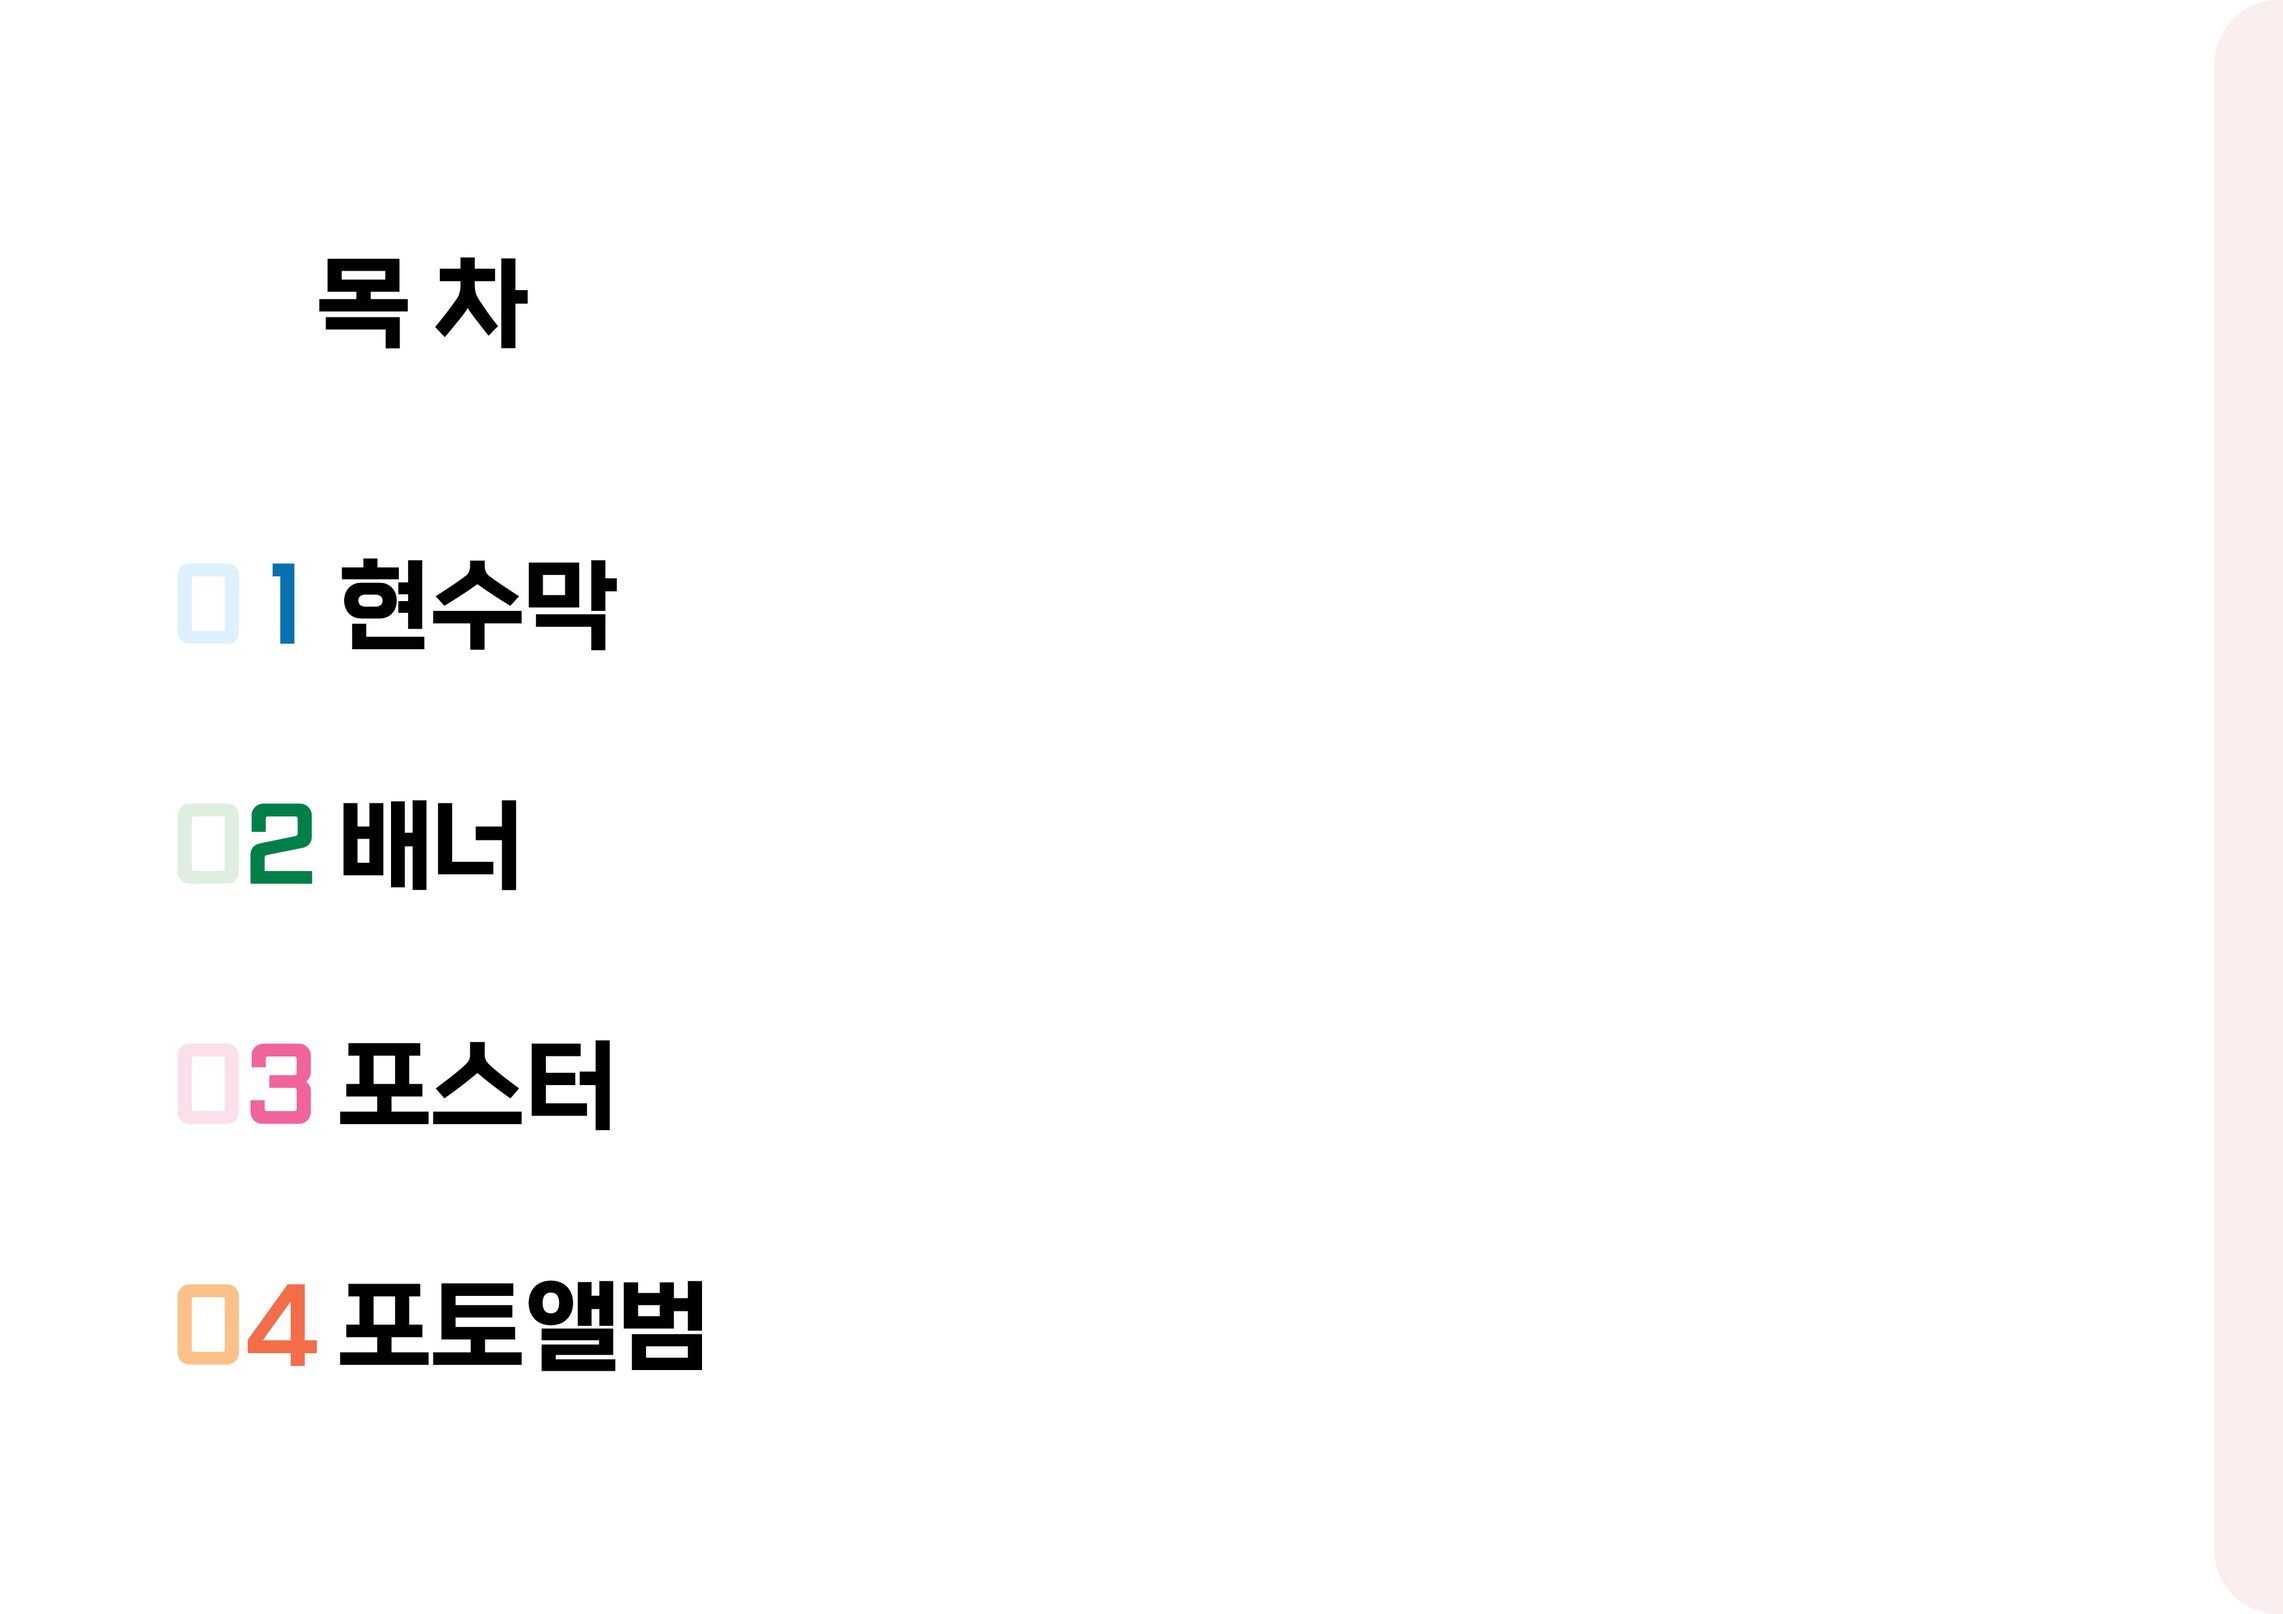
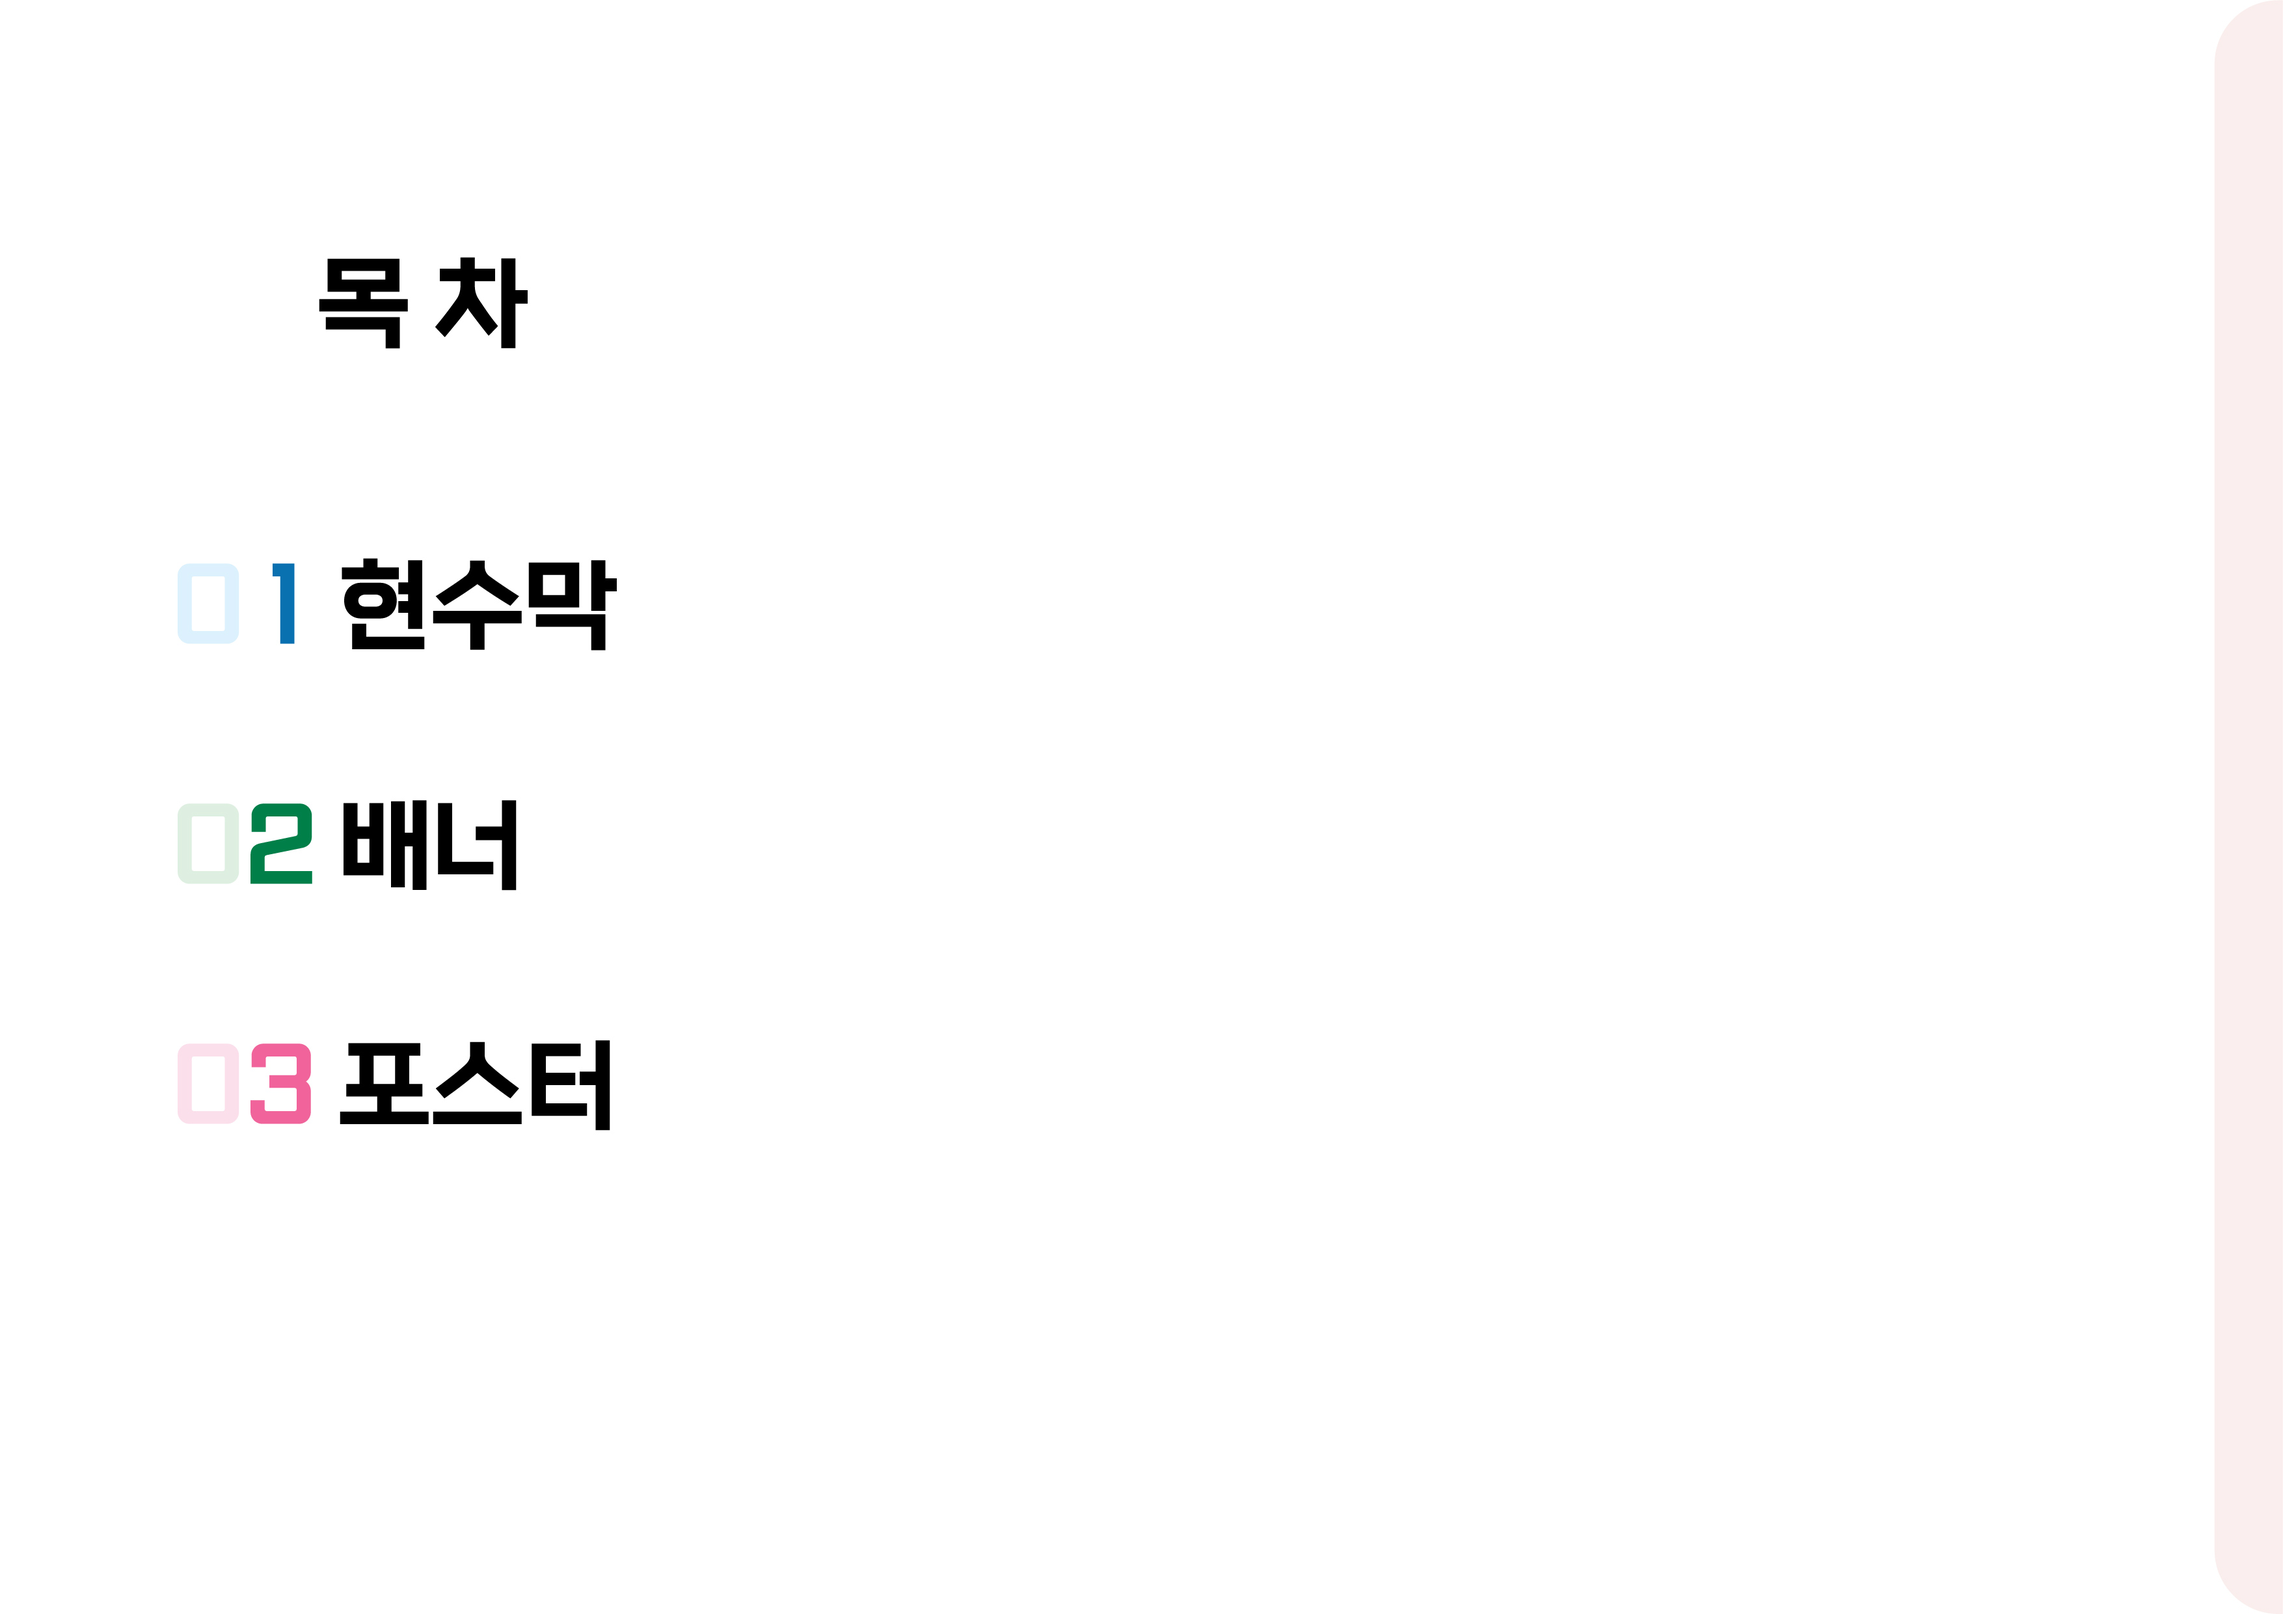
Add files via upload

Changed region(s): [[0.0621, 0.7759, 0.3106, 0.869]]

diff --git a/other_ebook/css/magazine.css b/other_ebook/css/magazine.css
@@ -3,16 +3,9 @@
 	right: 200px;
 	bottom: 50px;
 	z-index: 99;
-
 }
-
-.home a{
-	text-decoration: none;
-	color: #fff;
-	display: inline-block;
-	background-color: #666;
-	padding: 10px;
-	border-radius: 5px;
+.home img{
+	width: 50px;
 }
 
 body{

diff --git a/other_ebook/slider.html b/other_ebook/slider.html
@@ -72,7 +72,7 @@ function loadApp() {
 
 			// The number of pages, 페이지수 수정
 
-			pages: 11,
+			pages: 9,
 
 			// Events
 
